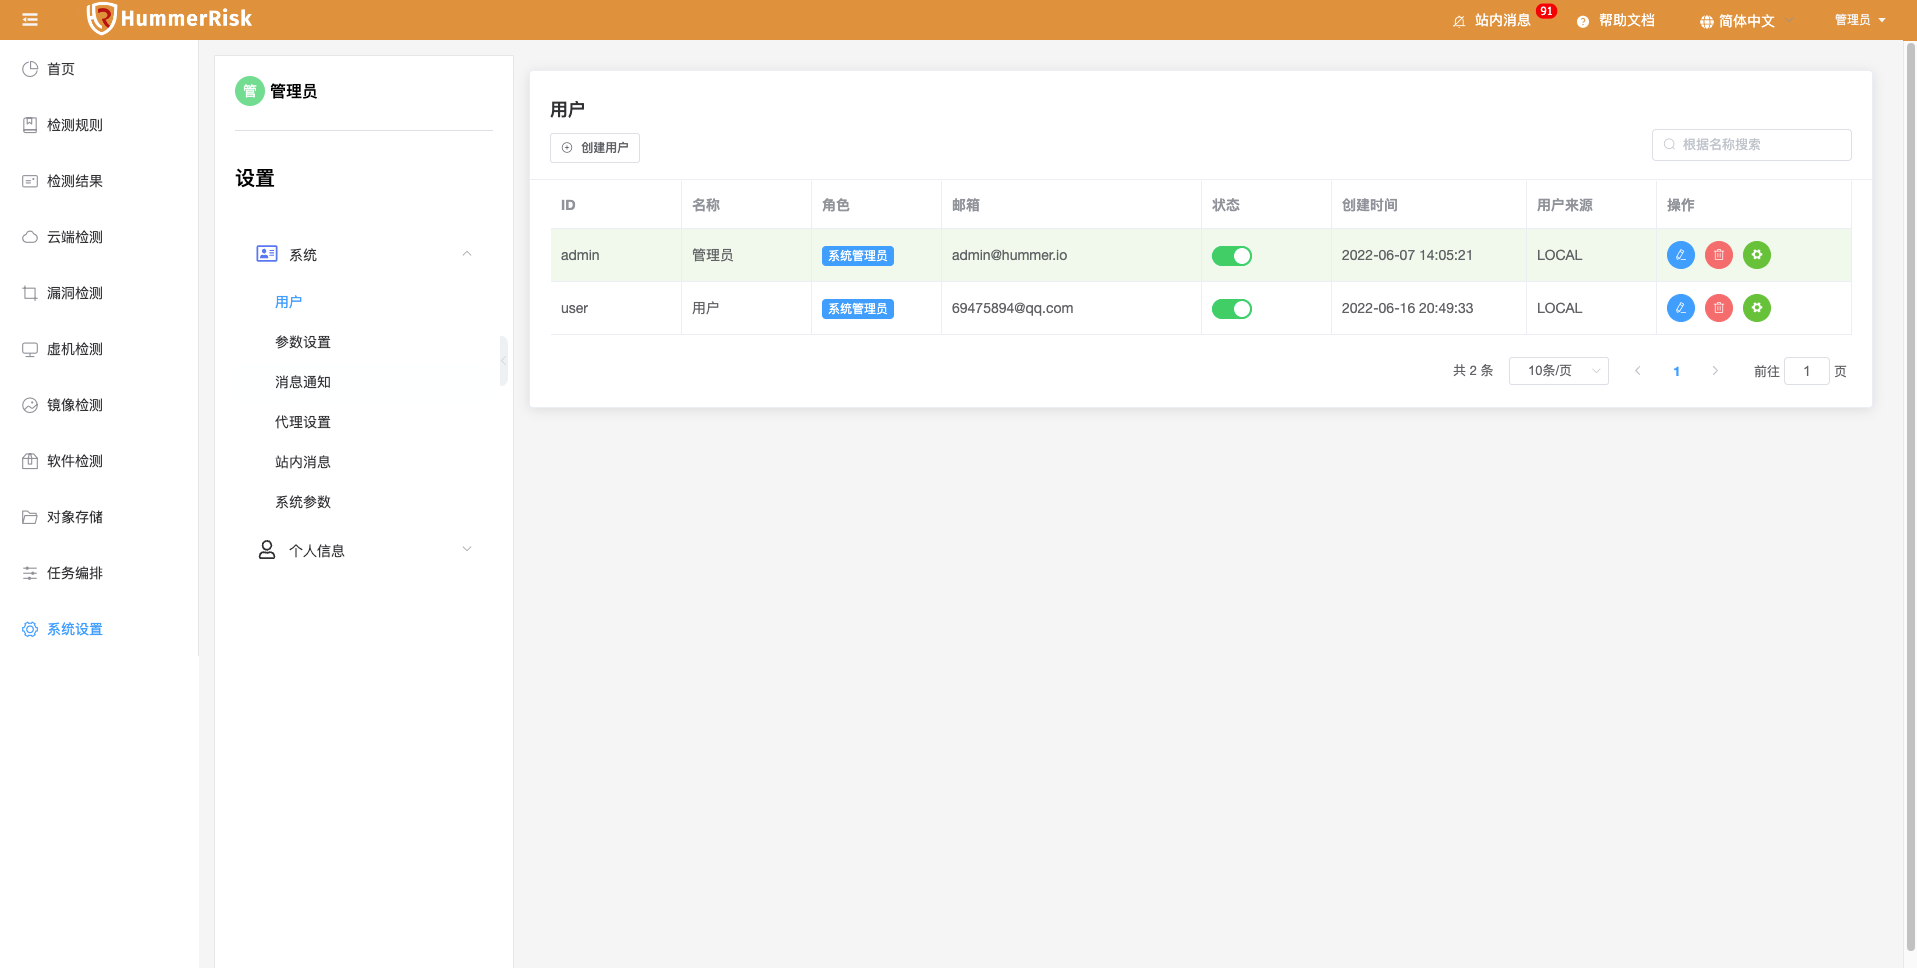
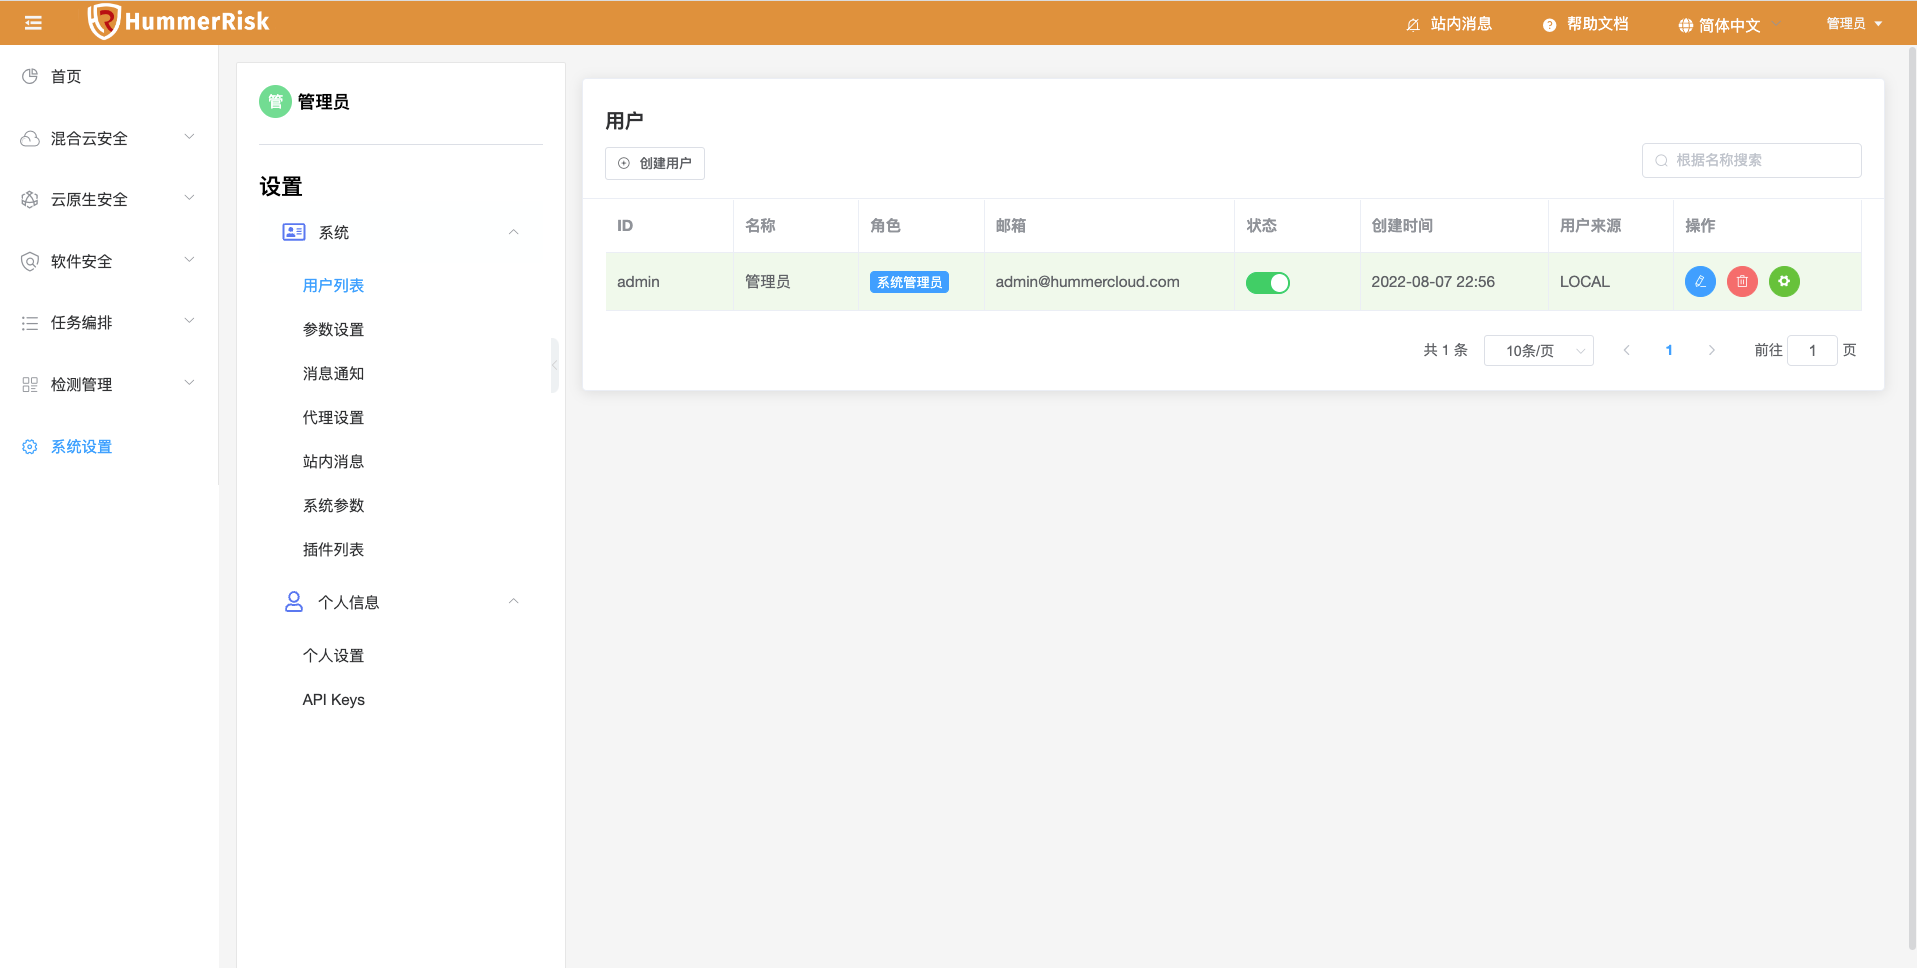
feat(version): 新增v0.2.2

diff --git a/docs/index.md b/docs/index.md
@@ -7,55 +7,59 @@
 <img src="https://hummerrisk-1312321453.cos.ap-beijing.myqcloud.com/architecturev.png" alt="">
 
 ## HummerRisk 能做什么
+
 ### **混合云安全**
+
 * 混合云安全合规检测：
-  对主流的公(私)有云资源进行安全合规检测，例如等保2.0预检、CIS 合规检查、各种基线检测，同时可自定义检测规则
+  对主流的公(私)有云资源进行安全合规检测，例如等保2.0预检、CIS 合规检查、各种基线检测，同时可自定义检测规则；
 * 漏洞检测：
-  基于漏洞规则库，通过扫描等手段对指定的网络设备及应用服务的安全脆弱性进行检测
+  基于漏洞规则库，通过扫描等手段对指定的网络设备及应用服务的安全脆弱性进行检测；
 * 合规报告：
-  一键获取合规报告，全面掌控安全态势
+  一键获取合规报告，全面掌控安全态势。
+  
   <img src="https://hummerrisk-1312321453.cos.ap-beijing.myqcloud.com/multicloud.png" alt="">
+
 >**优势是什么？**
-> * 支持全面: 支持的几乎所有公有云,包括：阿里云、腾讯云、华为云、火山云、百度云、AWS、Azure、GCE，支持的私有云包括：OpenStack、VMware vSphere，并还在不断的扩充支持的范围。  
-> * 容易上手: 只需绑定云账号，就可以一键执行检测  
-> * 开箱即用: 内置大量规则，并可按需自定义规则  
+> * 支持全面: 支持的几乎所有公有云,包括：阿里云、腾讯云、华为云、火山引擎、百度云、青云、UCloud、Amazon Web Services、Microsoft Azure、Google Cloud，支持的私有云包括：OpenStack、VMware vSphere，并还在不断的扩充支持的范围；
+> * 容易上手: 只需绑定云账号，就可以一键执行检测；
+> * 开箱即用: 内置大量规则，并可按需自定义规则。 
 
 
 ### **K8S 容器云安全**
 * K8S 资源态势：
-  可以关联多个 K8S 集群，统一查看各个关联环境的资源态势
+  可以关联多个 K8S 集群，统一查看各个关联环境的资源态势；
 * 环境检测：
-  根据 K8S 安全基线进行检测，发现存在的配置错误、安全漏洞、危险动作等内容
+  根据 K8S 安全基线进行检测，发现存在的配置错误、安全漏洞、危险动作等内容；
 * 镜像检测：
-  全面检测镜像相关的漏洞，包括操作系统、软件包、应用程序依赖等方面
+  全面检测镜像相关的漏洞，包括操作系统、软件包、应用程序依赖等方面；
 * 容器检测：
-  对运行容器进行扫描检测，发现存在的安全问题和风险内容
+  对运行容器进行扫描检测，发现存在的安全问题和风险内容；
 * 部署检测：
-  检测 K8S 的部署编排文件，在部署前发现其中的配置问题
+  检测 K8S 的部署编排文件，在部署前发现其中的配置问题；
 * 主机检测：
-  可以自定义检测内容，发现底层主机/虚机中存在问题
+  可以自定义检测内容，发现底层主机/虚机中存在问题。
 
   <img src="https://hummerrisk-1312321453.cos.ap-beijing.myqcloud.com/k8s.png" alt="">
+
 >**优势是什么？**  
-> * 兼容性: 支持多种 K8S 发行版  
-> * 独立性: 中立产品，客观检测  
-> * 无侵入：无侵入式检测  
+> * 兼容性: 支持多种 K8S 发行版；
+> * 独立性: 中立产品，客观检测；
+> * 无侵入：无侵入式检测。
 
 ### **软件安全**
 
-以源码、软件、镜像相结合的检测为基础，帮助企业构建和持续管理 SBOM，提升软件供应链安全、开源安全
-  
-* 源码检测：检测开发者的源代码，提前发现其中的开源协议、依赖、漏洞、代码等问题
-* 软件依赖检测：通过对软件成分的分析，发现依赖漏洞，同时构建 SBOM
-* 镜像依赖检测：检测镜像中的各种依赖信息，并发现安全漏洞
-* SBOM 管理: SBOM 的可视化管理和分析，检测 SBOM 的变更，快速发现和定位软件供应链中的风险和漏洞，给出合理的处理建议
+以源码、软件、镜像相结合的检测为基础，帮助企业构建和持续管理 SBOM，提升软件供应链安全、开源安全。
+* 源码检测：检测开发者的源代码，提前发现其中的开源协议、依赖、漏洞、代码等问题；
+* 软件依赖检测：通过对软件成分的分析，发现依赖漏洞，同时构建 SBOM；
+* 镜像依赖检测：检测镜像中的各种依赖信息，并发现安全漏洞；
+* SBOM 管理: SBOM 的可视化管理和分析，检测 SBOM 的变更，快速发现和定位软件供应链中的风险和漏洞，给出合理的处理建议。
 
   <img src="https://hummerrisk-1312321453.cos.ap-beijing.myqcloud.com/software.png" alt="">
 
 >**优势是什么？**  
-* 全生命周期: 覆盖开发、构建、运行等多个阶段、支持对接多种仓库  
-* 自动处理: SBOM 的处理和建设过程自动化完成  
-* 可视化: 为管理和分析提供了便捷的可视化界面  
+> * 全生命周期: 覆盖开发、构建、运行等多个阶段、支持对接多种仓库；
+> * 自动处理: SBOM 的处理和建设过程自动化完成；
+> * 可视化: 为管理和分析提供了便捷的可视化界面。 
 
 
 
@@ -65,7 +69,23 @@
 - [x] 无侵入式：基于无侵入式的实现方式，快速上手，降低潜在风险;
 - [x] 支持全面：从底层基础环境到上层软件应用，覆盖云原生环境的全部方面;
 - [x] 规则丰富：大量内置检测规则，如 CIS 规则，等保2.0 规则等，同时支持自定义规则;
-- [x] 支持信创：支持在信创环境中部署
+- [x] 支持信创：支持在信创环境中部署。
+
+## 技术栈
+
+- [Vue](https://vuejs.org/)：使用了 Vue.js 作为前端技术栈
+- [Spring Boot](https://www.tutorialspoint.com/spring_boot/spring_boot_introduction.htm)：使用了 Spring Boot 作为后端技术栈
+- [MySQL](https://www.mysql.com/)：使用了 MySQL 作为数据库引擎
+- [Cloud Custodian](https://cloudcustodian.io/)：使用了 Cloud Custodian 作为云平台检测引擎
+- [Prowler](https://prowler.pro/)：使用了 Prowler 作为 AWS 检测引擎
+- [Nuclei](https://nuclei.projectdiscovery.io/)：使用了 Nuclei 作为漏洞检测引擎
+- [Xray](https://xray.cool/)：使用了 Xray 作为漏洞检测引擎
+- [Tsunami](https://github.com/google/tsunami-security-scanner/blob/master/docs/index.md)：使用了 Tsunami 作为网络安全扫描引擎
+- [Trivy](https://github.com/aquasecurity/trivy)：使用了 Trivy 作为云原生检测引擎
+- [Dependency Check](https://jeremylong.github.io/DependencyCheck/)：使用了 Dependency Check 作为软件依赖检查引擎
+- [Grype](https://github.com/anchore/grype)：使用了 Grype 作为镜像依赖检测引擎
+- [Syft](https://github.com/anchore/syft)：使用了 Syft 作为镜像物料清单检测引擎
+- [Element](https://element.eleme.cn/#/)：使用了 Element 提供的优秀组件库
 
 
 !!! warning "默认 web 登录账户: admin 密码：hummer"

diff --git a/docs/release/release-0.2.2.md b/docs/release/release-0.2.2.md
@@ -1,0 +1,97 @@
+## 1 新功能 Features
+
+### 1.1 火山引擎云账号规则
+
+!!! Abstract ""
+如下图所示，新增火山引擎(字节云)检测规则，绑定火山账号即可进行安全合规检测。
+
+> 绑定火山引擎(字节云)账号。
+
+![新增火山引擎](../img/release/0.2.1/huoshan.png){ width="900px" }
+![新增火山引擎](../img/release/0.2.1/huoshan2.png){ width="900px" }
+
+> 执行一键安全检测。
+
+![火山引擎](../img/release/0.2.1/huoshan3.png){ width="900px" }
+
+> 查看合规报告。
+
+![火山引擎](../img/release/0.2.1/huoshan4.png){ width="900px" }
+
+![火山引擎](../img/release/0.2.1/huoshan5.png){ width="900px" }
+
+### 1.2 华为云账号规则
+
+!!! Abstract ""
+如下图所示，新增华为云检测规则若干，绑定华为云账号即可进行安全合规检测。
+
+![华为云](../img/release/0.2.1/huawei.png){ width="900px" }
+
+### 1.3 阿里矢量图标库
+
+!!! Abstract ""
+新增阿里矢量图标库，增强图标库。
+
+![首页](../img/release/0.2.1/ali.png){ width="900px" }
+
+### 1.4 合规报告
+
+!!! Abstract ""
+如下图所示，新增漏洞检测合规报告。
+
+![漏洞检测](../img/release/0.2.1/vuln.png){ width="900px" }
+
+## 2 性能优化 Optimization
+
+### 2.1 目录结构
+
+!!! Abstract ""
+优化目录结构，突出三大场景：混合云安全、云原生安全、软件安全。
+
+![目录结构](../img/release/0.2.1/menu.png)
+![目录结构](../img/release/0.2.1/menu2.png)
+
+### 2.2 云端检测
+
+!!! Abstract ""
+优化阿里云部分检测规则。
+
+### 2.3 统计分析
+
+!!! Abstract ""
+优化云账号检测、漏洞检测的历史对比和统计分析功能。
+
+![历史数据](../img/release/0.2.1/history.png)
+
+### 2.4 POM依赖
+
+!!! Abstract ""
+优化 HummerRsik 的依赖包版本，删除无用的 log4j 包。
+
+
+## 3 Bug修复 Bug Fixes
+
+### 3.1 历史数据
+
+!!! Abstract ""
+修复历史数据列表版本对比展示问题。
+
+### 3.2 检测规则
+
+!!! Abstract ""
+修复部分检测规则中存在中文引号的问题。
+
+### 3.3 I18n翻译
+
+!!! Abstract ""
+修复大文本字段因翻译报错的问题。
+
+### 3.4 路由转换
+
+!!! Abstract ""
+优化详情页跳转、遮罩覆盖、路由转换等问题。
+
+### 3.5 菜单栏
+
+!!! Abstract ""
+修复菜单栏滚动与全屏滚动的问题。

diff --git a/docs/about/changelog.md b/docs/about/changelog.md
@@ -1,5 +1,30 @@
 # 更新日志
 
+v0.2.2
+------------------------
+2022年08月25日
+
+!!! info "🌱 新功能 Features"
+- feat（云账号规则）：新增 QingCloud 青云检测规则，绑定 QingCloud 账号即可进行云安全合规检测。
+- feat（云账号规则）：新增 Ucloud 优刻得检测规则，绑定 Ucloud 账号即可进行云安全合规检测。
+- feat（云原生安全）：新增 K8s 配置与云原生 K8s 环境安全检测功能，绑定 K8s Url 与 Token 信息即可进行安全检测，并生成安全漏洞结果。
+- feat（云原生安全）：新增资源态势功能，绑定 K8s 环境信息，即可获取 K8s 的 Namespace、Pod、Node、Deployment、Service 等20余种资源信息。
+- feat（云原生安全）：新增云原生镜像漏洞检测功能，镜像检测获取漏洞结果。
+- feat（云原生安全）：新增云原生部署检测功能，输入 K8s 部署配置 YAML 文件，即可进行部署检测，输出部署配置检测结果。
+- feat（系统设置）：新增插件列表，展示云插件与云原生插件信息。
+
+!!! summary "🚀 性能优化 Optimization"
+- refactor（镜像检测）：优化云原生镜像检测，主要用于漏洞检测。区分开与软件镜像依赖检测，软件镜像依赖检测主要用于 SBOM 管理。
+- refactor（HttpClient）：优化 HttpClient，解决 SSL 限制导致 API 调用不通的问题。
+- refactor（K8s 检测）：优化 K8s 检测流程，获取 K8s 版本等信息。
+- refactor（历史数据）：优化安全检测历史数据的留存。
+
+!!! success "🐛 Bug修复 Bug Fixes"
+- fix（执行日志）：修复执行检测日志某些字段不够大导致的报错问题。
+- fix（筛选条件）：修复部分筛选条件为空或导致页面报错的问题。
+- fix（镜像依赖）：修复添加云原生镜像检测后，镜像依赖检测报错等问题。
+- fix（目录菜单）：优化因添加目录，导致菜单栏滚动条失效的问题。
+
 v0.2.1
 ------------------------
 2022年08月10日
